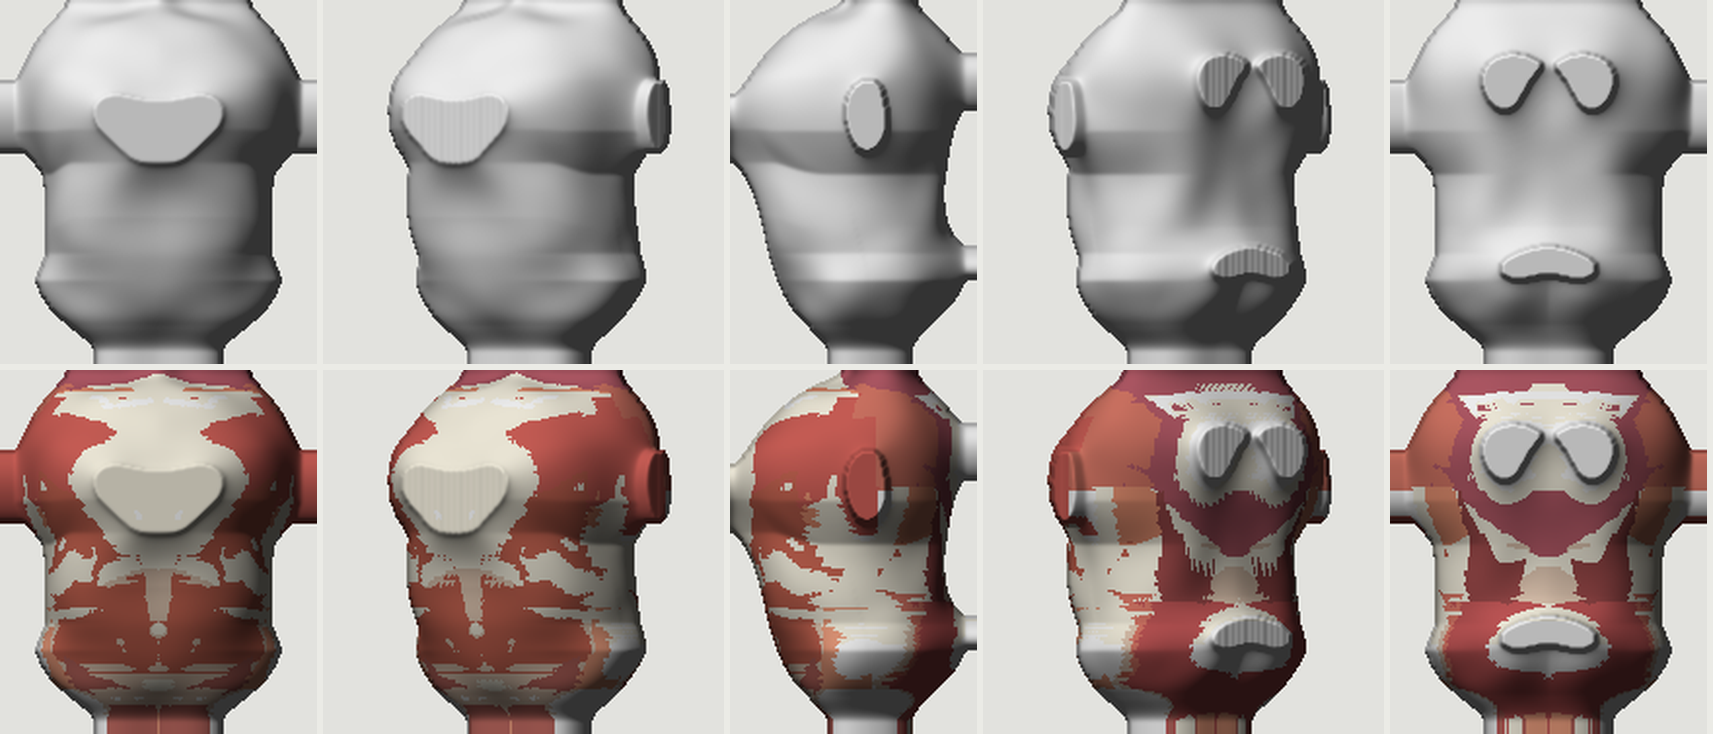
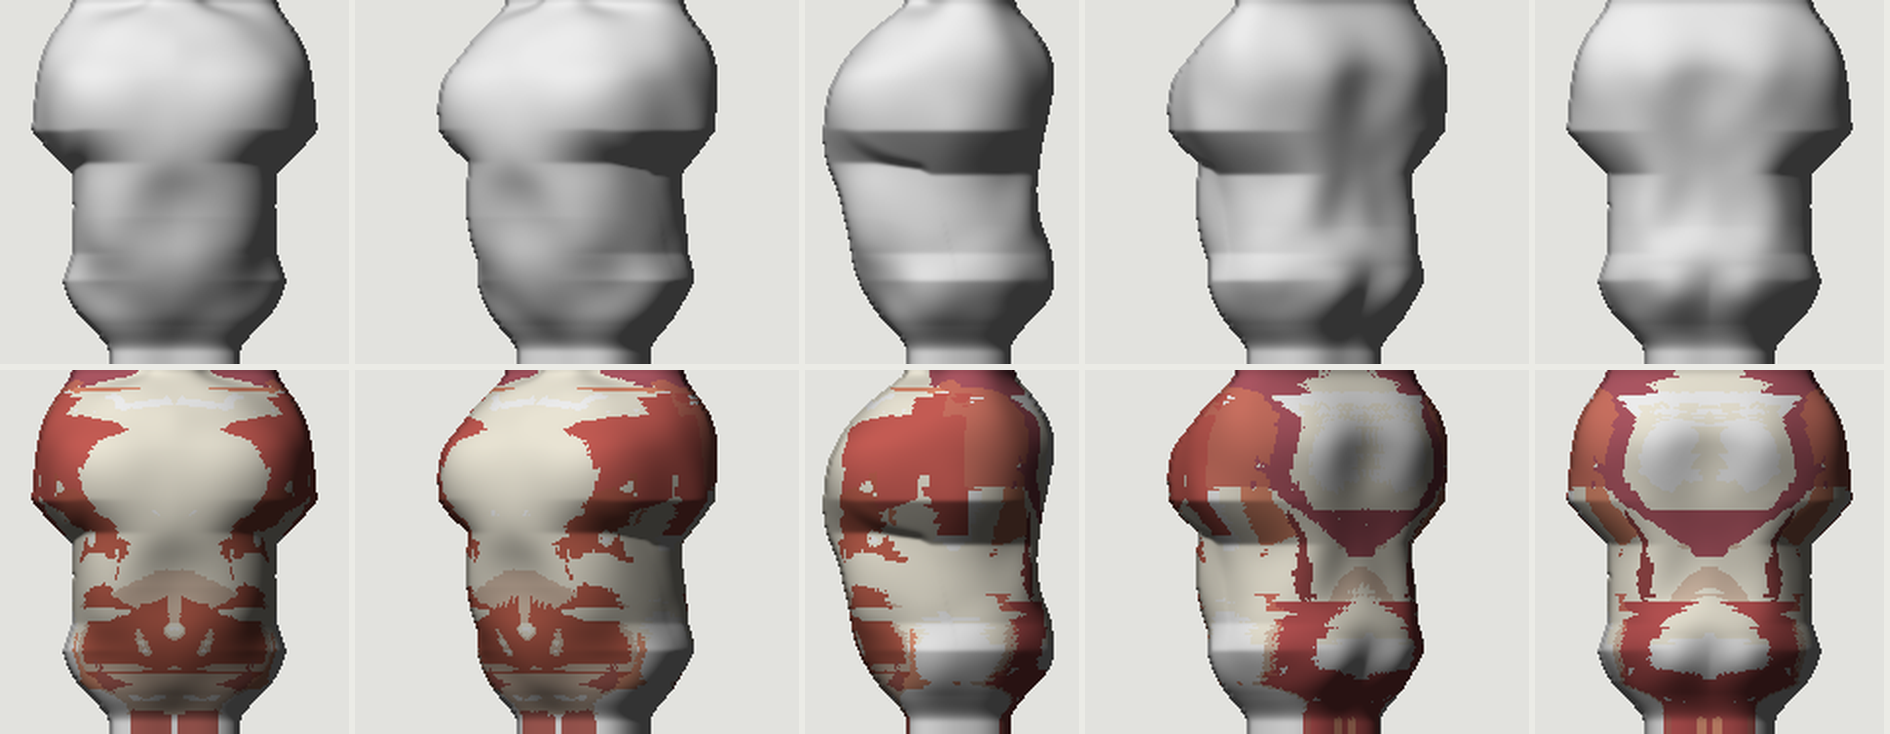
Body 3D: fat, muscle and bone shares solved together (solve_comp: fat slider, bone counted as its cortical shell, muscles thickened into the room under the skin), thoracic viscera at lung density, body grid margin 24 px; prototype M v20 at 23 / 41.4 / 3.9 %

diff --git a/Art/work/transfer-proto/fable-crack/proto.py b/Art/work/transfer-proto/fable-crack/proto.py
@@ -14,7 +14,9 @@ from scipy import ndimage as ndi
 
 import stack3d as s
 
-DENS = {"bone": 1.85, "viscera": 1.04, "muscle": 1.06, "fat pads": 0.92, "fat": 0.92, "rest": 1.10}   # g/cm3
+DENS = {"bone": 1.85, "viscera": 1.04, "viscera (thorax)": 0.45, "muscle": 1.06, "fat pads": 0.92, "fat": 0.92, "rest": 1.10}   # g/cm3
+# the thoracic cavity holds the lungs (about 0.3 g/cm3, mostly air) and the heart: 0.45 on average, above the diaphragm
+DIAPHRAGM = 300.0
 
 
 def carry(K, a):
@@ -41,13 +43,18 @@ def layer_fields(K):
 def composition(F, d, h):
     """Mass shares (%) inside the skin d: every layer less the ones under it; the fat outside the lean counts as fat."""
     skin = d < 0
-    bone = F["bone"] < 0; musc = (F["muscle"] < 0) & ~bone; pads = (F["pads"] < 0) & ~bone & ~musc
+    bone = F["bone_vox"] if "bone_vox" in F else F["bone"] < 0
+    musc = (F["muscle_vox"] if "muscle_vox" in F else F["muscle"] < 0) & ~bone
+    pads = (F["pads"] < 0) & ~bone & ~musc
     lean = F["lean"] < 0
     fat = (F["fat"] < 0) | F.get("grown", np.zeros_like(skin))   # the skin grown outward (prototype fat) is fat too
     under = bone | musc | pads
     fat = fat & ~lean & ~under
     vox = {"bone": bone, "muscle": musc, "fat pads": pads, "viscera": lean & ~under, "fat": fat,
            "rest": ~fat & ~lean & ~under}
+    if "thorax" in F:
+        vox["viscera (thorax)"] = vox["viscera"] & F["thorax"]
+        vox["viscera"] = vox["viscera"] & ~F["thorax"]
     mass = {k: float((m & skin).sum()) * h ** 3 * DENS[k] for k, m in vox.items()}
     tot = sum(mass.values())
     return {k: 100.0 * v / tot for k, v in mass.items()}
@@ -58,7 +65,7 @@ def composition(F, d, h):
 WROWS = {"shoulders": 268.0, "upper chest": 298.0, "waist": 358.0, "pelvis": 382.0}
 # M of 2026-11-17 (second sheet): fat 23 %, muscle 42 %, bone 4 %; shoulders 43 cm, upper chest 34, waist 31, pelvis 33
 PROTO = {"M": {"shoulders": 1.0, "upper chest": 0.79, "waist": 0.72, "pelvis": 0.77}}
-# Only the fat share is solved (solve_fat); the muscle and bone shares are declared targets, not yet constrained.
+# Solved together by solve_comp: fat by the slider, bone by the shell counted, muscle by the thickening of the muscles.
 COMP = {"M": {"fat": 23.0, "muscle": 42.0, "bone": 4.0}}
 
 
@@ -115,6 +122,61 @@ def shaped(G, Gs, fields, rows, k, zc, sh):
 
 PAD_GAIN = 1.5        # a pad adds 1.5 times the global layer where it lies (2.5 made bubbles once the envelope was smooth)
 PAD_REACH = 40.0      # px from a pad over which its extra fat fades (broad: a pad melts into the layer, not a lump)
+
+
+def fat_fields(G, F, d00, zc_rows):
+    """near (pad weight) and dd (signed distance of the smooth envelope) for the fat slider."""
+    pad = F["pads"] < 0
+    front = G.z[None, None, :] >= np.asarray(zc_rows, np.float32)[:, None, None]
+    sg = PAD_REACH / 2.0 / G.h
+    wF = ndi.gaussian_filter((pad & front).any(axis=2).astype(np.float32), sg)
+    wB = ndi.gaussian_filter((pad & ~front).any(axis=2).astype(np.float32), sg)
+    near = np.where(front, np.clip(wF / 0.5, 0, 1)[:, :, None], np.clip(wB / 0.5, 0, 1)[:, :, None]).astype(np.float32)
+    return near, envelope(G, d00 < 0)
+
+
+def bisect(f, target, lo, hi, n=14):
+    """x in [lo, hi] where the increasing f(x) meets target."""
+    for _ in range(n):
+        mid = 0.5 * (lo + hi)
+        lo, hi = (mid, hi) if f(mid) < target else (lo, mid)
+    return 0.5 * (lo + hi)
+
+
+def solve_comp(G, F, d00, zc_rows, target):
+    """Fat, muscle and bone shares solved together (Virginie 2026-11-17: 'solve them'), the silhouette kept.
+    fat: the global slider t over the smooth envelope, with the pads (as in solve_fat).
+    bone: a bone is counted as its cortical and trabecular shell of thickness c px; the marrow inside is internal tissue
+          (BodyParts3D bones are solid, which counted them all at the density of compact bone).
+    muscle: every muscle thickened by m px into the room under the skin that is not bone (the gaps between pieces, the
+          inside of the envelope): the muscles fill the body instead of floating in unmodelled tissue.
+    The three are solved in turn, four rounds. Returns grow, t, near, composition, ref, m, c."""
+    near, dd = fat_fields(G, F, d00, zc_rows)
+    ins = d00 < 0; envin = dd < 0
+    bone0 = F["bone"] < 0
+    bdepth = ndi.distance_transform_edt(bone0) * G.h
+    mus0 = (F["muscle"] < 0) & ~bone0
+    mdist = ndi.distance_transform_edt(~mus0) * G.h
+    room = ins & ~bone0
+    thorax = np.broadcast_to((G.r < DIAPHRAGM)[:, None, None], ins.shape)
+    grow = lambda t, gain=PAD_GAIN: dd - t * (1.0 + gain * near)
+
+    def comp(m, c, t):
+        dt = grow(t)
+        F2 = dict(F); F2["bone_vox"] = bone0 & (bdepth <= c); F2["muscle_vox"] = mus0 | (room & (mdist <= m))
+        F2["grown"] = (dt < 0) & ~envin; F2["thorax"] = thorax
+        return composition(F2, dt, G.h)
+    m, c, t = 0.0, 40.0, 0.0
+    for _ in range(4):
+        t = bisect(lambda x: (lambda q: q["fat"] + q["fat pads"])(comp(m, c, x)), target["fat"], 0.0, 25.0)
+        c = bisect(lambda x: comp(m, x, t)["bone"], target["bone"], 0.0, 20.0)
+        m = bisect(lambda x: comp(x, c, t)["muscle"], target["muscle"], 0.0, 40.0)
+    t = bisect(lambda x: (lambda q: q["fat"] + q["fat pads"])(comp(m, c, x)), target["fat"], 0.0, 25.0)
+    xm = np.nan_to_num(np.nanmax(s.last_cross(d00, 1, G.x), axis=1))
+    ref = float(np.interp(WROWS["shoulders"], G.r, xm))
+    print(f"solved: fat layer {t:.2f} px ({100 * t / ref:.1f} % of the shoulder half width), bone shell {c:.2f} px, "
+          f"muscles thickened {m:.2f} px")
+    return grow, t, near, comp(m, c, t), ref, m, c
 
 
 def solve_fat(G, F, d00, zc_rows, target):
@@ -232,9 +294,11 @@ def proto_board(name, h):
     # the male distribution (lower belly and flanks first) grows with it. The slider is solved for the target fat share.
     F = layer_fields(K)
     d00 = K["d"]
-    grow, tf, near, comp, ref = solve_fat(G, F, d00, np.interp(G.r, T.rows, T.zc), COMP[name]["fat"])
+    grow, tf, near, comp, ref, mm, bc = solve_comp(G, F, d00, np.interp(G.r, T.rows, T.zc), COMP[name])
     print(f"{name}: fat grown {tf:.2f} px; composition " + ", ".join(f"{k} {v:.1f} %" for k, v in comp.items()))
     K = dict(K); K["d"] = grow(tf)
+    _xm = np.nan_to_num(np.nanmax(s.last_cross(K["d"], 1, G.x), axis=1))
+    print("half widths after the fat:", {n: round(float(np.interp(r, G.r, _xm)), 1) for n, r in WROWS.items()}, "grid x max", float(G.x[-1]))
     fat_map(G, d00, K["d"], near, F["lean"], name)
     for it in range(4):                                        # the shape edits move the rows: re-solve the widths on the result
         d, o = shaped(Go, G, [(K["d"], 1), (K["owner"], 0)], rows, k, (T.rows, T.zc), SHAPE[name])

diff --git a/Art/work/transfer-proto/fable-crack/stack3d.py b/Art/work/transfer-proto/fable-crack/stack3d.py
@@ -1529,7 +1529,7 @@ def chain_forward(steps, x, r, z, clamp=None):
 
 def body_grid(T, h):
     """Grid of a body: its sprite extents with a margin, voxels no finer than h and about five million of them."""
-    x1 = float(T.hw.max()) + 14.0; z0 = float(T.zb.min()) - 14.0; z1 = float(T.zf.max()) + 14.0
+    x1 = float(T.hw.max()) + 24.0; z0 = float(T.zb.min()) - 24.0; z1 = float(T.zf.max()) + 24.0   # room for the prototype fat
     r0 = float(T.s0) - 12.0; r1 = float(T.s1) + 12.0
     hb = max(h, round(float((x1 * (r1 - r0) * (z1 - z0) / 5.5e6) ** (1 / 3)), 2))
     return Grid(hb, x1=x1, r0=r0, r1=r1, z0=z0, z1=z1)
